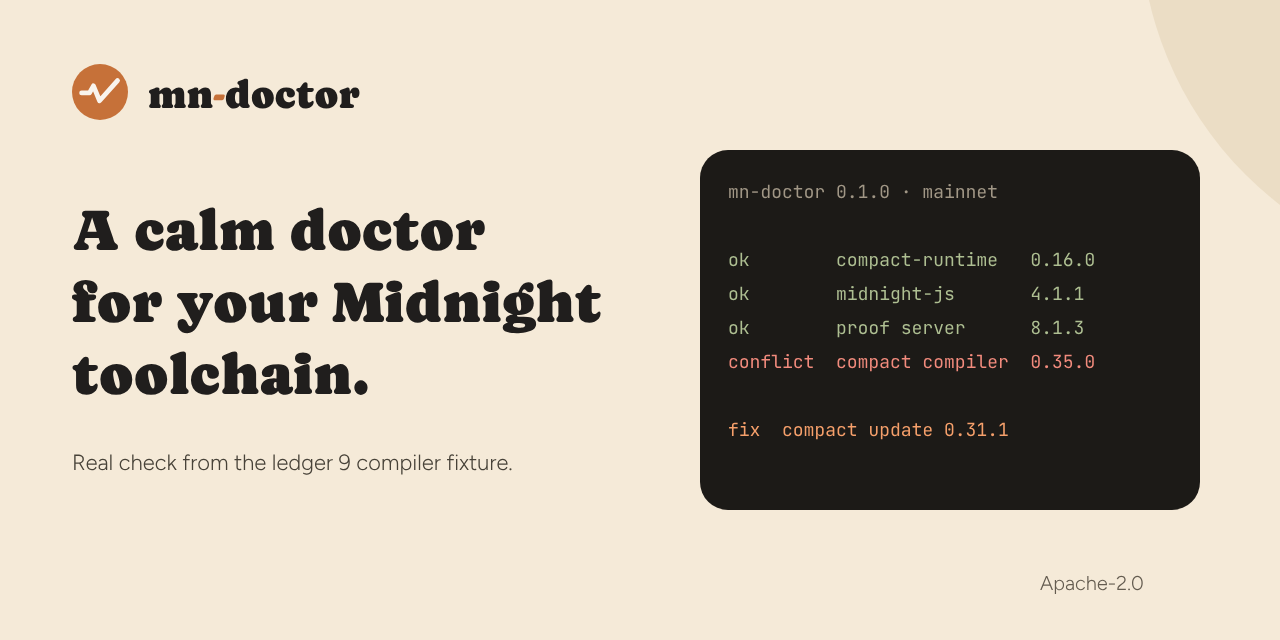
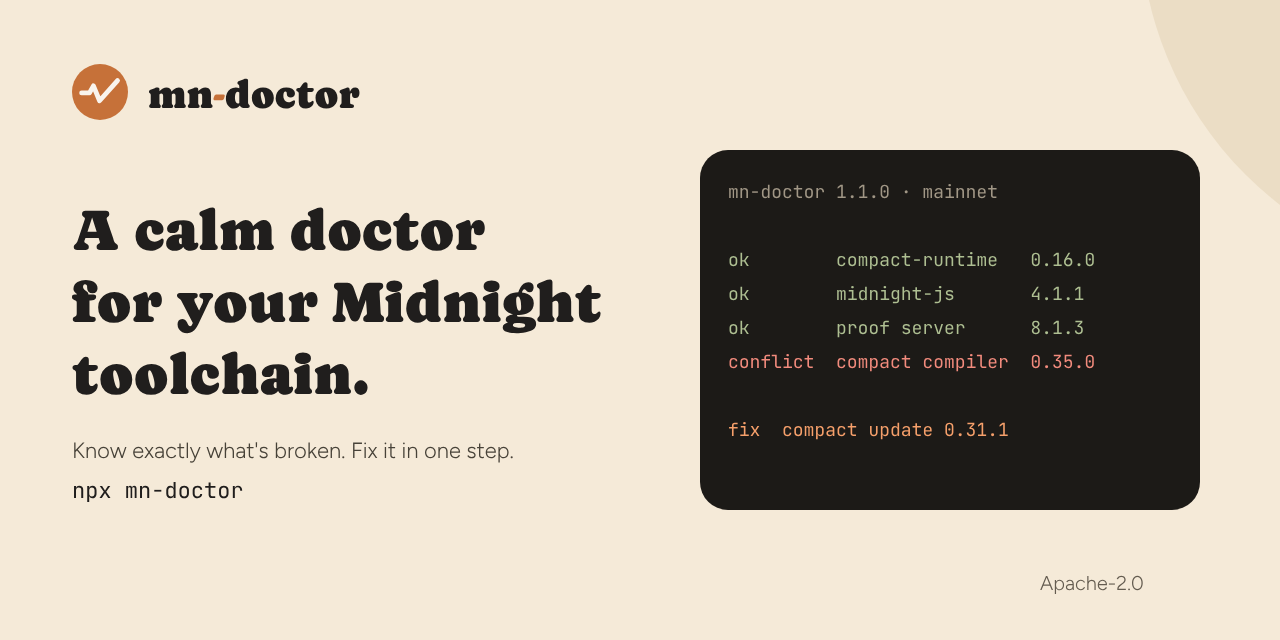
Ship mn-doctor 1.1.0 and shorten the source note
The CLI version matches the v1.1.0 tag. A check mentions that the docs
and SDK lists disagree, and prints the wrapped list only with --sources.

Changed region(s): [[0.0625, 0.6875, 0.4062, 0.7812]]

diff --git a/src/report.ts b/src/report.ts
@@ -19,6 +19,8 @@ const COL_FOUND = 12;
 
 export interface FormatOptions {
   ascii?: boolean;
+  /** Print every docs-vs-SDK disagreement. Default is a one-line count. */
+  sources?: boolean;
 }
 
 function paint(text: string, code: string, enabled: boolean): string {
@@ -35,8 +37,15 @@ function visibleLength(text: string): number {
   return text.replace(/\u001b\[[0-9;]*m/g, '').length;
 }
 
+function chunks(word: string, width: number): string[] {
+  if (word.length <= width) return [word];
+  const parts: string[] = [];
+  for (let i = 0; i < word.length; i += width) parts.push(word.slice(i, i + width));
+  return parts;
+}
+
 function wrap(text: string, width: number, indent: string): string[] {
-  const words = text.replace(/\s+/g, ' ').trim().split(' ');
+  const words = text.replace(/\s+/g, ' ').trim().split(' ').flatMap((word) => chunks(word, Math.max(1, width - indent.length)));
   if (words.length === 1 && words[0] === '') return [];
   const lines: string[] = [];
   let current = indent;
@@ -50,7 +59,12 @@ function wrap(text: string, width: number, indent: string): string[] {
     }
   }
   if (current.trim().length > 0) lines.push(current);
-  return lines.map((line) => (line.length > width ? line.slice(0, width) : line));
+  return lines;
+}
+
+function sourceNote(count: number): string {
+  const items = count === 1 ? 'item' : 'items';
+  return `Note: docs and the SDK list disagree on ${count} ${items}. Use --sources to see them.`;
 }
 
 function sentences(text: string, count: number): string {
@@ -299,10 +313,13 @@ export function formatReport(report: Report, color: boolean, options: FormatOpti
 
   if (report.disagreements.length > 0) {
     lines.push('');
-    lines.push('Official sources disagree. This does not fail the check.');
-    for (const row of report.disagreements) {
-      const line = `  ${row.component}: docs ${row.docs}; sdk ${row.sdk}`;
-      lines.push(line.length <= WIDTH ? line : `${line.slice(0, WIDTH - 1)}…`);
+    if (options.sources) {
+      lines.push('Official sources disagree. This does not fail the check.');
+      for (const row of report.disagreements) {
+        lines.push(...wrap(`${row.component}: docs ${row.docs}; sdk ${row.sdk}`, WIDTH, '  '));
+      }
+    } else {
+      lines.push(sourceNote(report.disagreements.length));
     }
   }
 

diff --git a/dist/report.js b/dist/report.js
@@ -25,8 +25,16 @@ function pad(text, width) {
 function visibleLength(text) {
     return text.replace(/\u001b\[[0-9;]*m/g, '').length;
 }
+function chunks(word, width) {
+    if (word.length <= width)
+        return [word];
+    const parts = [];
+    for (let i = 0; i < word.length; i += width)
+        parts.push(word.slice(i, i + width));
+    return parts;
+}
 function wrap(text, width, indent) {
-    const words = text.replace(/\s+/g, ' ').trim().split(' ');
+    const words = text.replace(/\s+/g, ' ').trim().split(' ').flatMap((word) => chunks(word, Math.max(1, width - indent.length)));
     if (words.length === 1 && words[0] === '')
         return [];
     const lines = [];
@@ -43,7 +51,11 @@ function wrap(text, width, indent) {
     }
     if (current.trim().length > 0)
         lines.push(current);
-    return lines.map((line) => (line.length > width ? line.slice(0, width) : line));
+    return lines;
+}
+function sourceNote(count) {
+    const items = count === 1 ? 'item' : 'items';
+    return `Note: docs and the SDK list disagree on ${count} ${items}. Use --sources to see them.`;
 }
 function sentences(text, count) {
     const parts = text
@@ -276,10 +288,14 @@ export function formatReport(report, color, options = {}) {
     }
     if (report.disagreements.length > 0) {
         lines.push('');
-        lines.push('Official sources disagree. This does not fail the check.');
-        for (const row of report.disagreements) {
-            const line = `  ${row.component}: docs ${row.docs}; sdk ${row.sdk}`;
-            lines.push(line.length <= WIDTH ? line : `${line.slice(0, WIDTH - 1)}…`);
+        if (options.sources) {
+            lines.push('Official sources disagree. This does not fail the check.');
+            for (const row of report.disagreements) {
+                lines.push(...wrap(`${row.component}: docs ${row.docs}; sdk ${row.sdk}`, WIDTH, '  '));
+            }
+        }
+        else {
+            lines.push(sourceNote(report.disagreements.length));
         }
     }
     for (const finding of report.findings.filter((item) => item.severity === 'info' && item.code !== 'multiple-lockfiles')) {

diff --git a/test/report.test.ts b/test/report.test.ts
@@ -24,7 +24,7 @@ function reportFor(fixture: string, toolchain: string) {
   return analyze(inspectProject(join(root, 'test', 'fixtures', fixture), compiler), data, {
     network: 'mainnet',
     networkLedgerMajor: 8,
-    toolVersion: '0.1.0',
+    toolVersion: '1.1.0',
   });
 }
 
@@ -39,7 +39,7 @@ describe('terminal report', () => {
     for (const line of lines) {
       assert.ok(line.length <= 80, `too long (${line.length}): ${line}`);
     }
-    assert.match(lines[0], /^mn-doctor 0\.1\.0 · .+ · mainnet$/);
+    assert.match(lines[0], /^mn-doctor 1\.1\.0 · .+ · mainnet$/);
     assert.match(text, /STATUS\s+COMPONENT\s+FOUND\s+EXPECTED/);
     assert.match(text, /✗ conflict\s+compact compiler\s+0\.35\.0\s+0\.31\.1/);
     assert.match(text, /✓ ok\s+compact-runtime\s+0\.16\.0\s+0\.16\.0/);
@@ -49,8 +49,22 @@ describe('terminal report', () => {
     assert.doesNotMatch(text, /0\.24\.0/);
     assert.match(text, /2 conflicts/);
     assert.match(text, /Run mn-doctor fix/);
-    assert.match(text, /docs 4\.1\.1/);
-    assert.match(text, /4\.0\.4/);
+    assert.match(text, /Note: docs and the SDK list disagree on \d+ items\. Use --sources to see them\./);
+    assert.doesNotMatch(text, /…/);
+    assert.doesNotMatch(text, /4\.0\.4/);
+  });
+
+  it('prints the full source list only with --sources, wrapped', () => {
+    const text = formatReport(reportFor('broken-compiler-ledger9', '0.35.0'), false, { sources: true });
+    const lines = plainLines(text);
+    for (const line of lines) {
+      assert.ok(line.length <= 80, `too long (${line.length}): ${line}`);
+    }
+    assert.match(text, /Midnight\.js: docs 4\.1\.1; sdk 4\.0\.4/);
+    assert.match(text, /wallet-sdk-facade/);
+    assert.match(text, /3\.0\.0/);
+    assert.doesNotMatch(text, /…/);
+    assert.doesNotMatch(text, /Use --sources to see them/);
   });
 
   it('prints a clean bill of health for the docs set', () => {

diff --git a/src/cli.ts b/src/cli.ts
@@ -30,6 +30,7 @@ interface Flags {
   devtoolsVersion?: string;
   noColor: boolean;
   ascii: boolean;
+  sources: boolean;
   help: boolean;
   version: boolean;
   command: string;
@@ -50,6 +51,8 @@ function readFlags(argv: string[]): Flags {
       'devtools-version': { type: 'string' },
       'no-color': { type: 'boolean', default: false },
       ascii: { type: 'boolean', default: false },
+      sources: { type: 'boolean', default: false },
+      verbose: { type: 'boolean', default: false },
       help: { type: 'boolean', short: 'h', default: false },
       version: { type: 'boolean', short: 'v', default: false },
     },
@@ -64,6 +67,7 @@ function readFlags(argv: string[]): Flags {
     devtoolsVersion: parsed.values['devtools-version'],
     noColor: parsed.values['no-color'] ?? false,
     ascii: parsed.values.ascii ?? false,
+    sources: Boolean(parsed.values.sources || parsed.values.verbose),
     help: parsed.values.help ?? false,
     version: parsed.values.version ?? false,
     command: parsed.positionals[0] ?? 'check',
@@ -88,6 +92,7 @@ Options
   --yes                           Apply fix file edits without a prompt
   --no-color
   --ascii                         Use [ok] [warn] [x] instead of Unicode symbols
+  --sources, --verbose            List every docs and SDK version disagreement
   -h, --help
   -v, --version
 
@@ -218,7 +223,7 @@ async function main(argv: string[]): Promise<number> {
       toolVersion: version,
     });
     if (flags.json) console.log(JSON.stringify(report, null, 2));
-    else console.log(formatReport(report, colorEnabled(flags), { ascii: asciiEnabled(flags) }));
+    else console.log(formatReport(report, colorEnabled(flags), { ascii: asciiEnabled(flags), sources: flags.sources }));
     return report.ok ? 0 : 1;
   }
 

diff --git a/dist/cli.js b/dist/cli.js
@@ -25,6 +25,8 @@ function readFlags(argv) {
             'devtools-version': { type: 'string' },
             'no-color': { type: 'boolean', default: false },
             ascii: { type: 'boolean', default: false },
+            sources: { type: 'boolean', default: false },
+            verbose: { type: 'boolean', default: false },
             help: { type: 'boolean', short: 'h', default: false },
             version: { type: 'boolean', short: 'v', default: false },
         },
@@ -39,6 +41,7 @@ function readFlags(argv) {
         devtoolsVersion: parsed.values['devtools-version'],
         noColor: parsed.values['no-color'] ?? false,
         ascii: parsed.values.ascii ?? false,
+        sources: Boolean(parsed.values.sources || parsed.values.verbose),
         help: parsed.values.help ?? false,
         version: parsed.values.version ?? false,
         command: parsed.positionals[0] ?? 'check',
@@ -62,6 +65,7 @@ Options
   --yes                           Apply fix file edits without a prompt
   --no-color
   --ascii                         Use [ok] [warn] [x] instead of Unicode symbols
+  --sources, --verbose            List every docs and SDK version disagreement
   -h, --help
   -v, --version
 
@@ -182,7 +186,7 @@ async function main(argv) {
         if (flags.json)
             console.log(JSON.stringify(report, null, 2));
         else
-            console.log(formatReport(report, colorEnabled(flags), { ascii: asciiEnabled(flags) }));
+            console.log(formatReport(report, colorEnabled(flags), { ascii: asciiEnabled(flags), sources: flags.sources }));
         return report.ok ? 0 : 1;
     }
     const manifestPlan = planFix(snapshot, data);

diff --git a/test/check.test.ts b/test/check.test.ts
@@ -159,8 +159,40 @@ describe('cli', () => {
     ]);
     assert.equal(result.status, 1);
     assert.match(result.stdout, /compact update 0\.31\.1/);
-    assert.match(result.stdout, /4\.1\.1/);
-    assert.match(result.stdout, /4\.0\.4/);
+    assert.match(result.stdout, /mn-doctor 1\.1\.0/);
+    assert.match(result.stdout, /Use --sources to see them/);
+    assert.doesNotMatch(result.stdout, /4\.0\.4/);
+  });
+
+  it('prints source disagreements with --sources', () => {
+    const result = runCli([
+      'check',
+      '--cwd',
+      'test/fixtures/good-public',
+      '--compact-version',
+      '0.31.1',
+      '--devtools-version',
+      '0.5.1',
+      '--sources',
+      '--no-color',
+    ]);
+    assert.equal(result.status, 0, result.stdout);
+    assert.match(result.stdout, /Midnight\.js: docs 4\.1\.1; sdk 4\.0\.4/);
+    for (const line of result.stdout.split('\n')) {
+      assert.ok(line.length <= 80, line);
+    }
+    const verbose = runCli([
+      'check',
+      '--cwd',
+      'test/fixtures/good-public',
+      '--compact-version',
+      '0.31.1',
+      '--devtools-version',
+      '0.5.1',
+      '--verbose',
+      '--no-color',
+    ]);
+    assert.equal(verbose.stdout, result.stdout);
   });
 
   it('prints compat data', () => {

diff --git a/README.md b/README.md
@@ -3,7 +3,7 @@
 </p>
 
 <p align="center">
-  <a href="https://github.com/maureenblack/mn-doctor/blob/main/package.json"><img src="https://img.shields.io/badge/version-0.1.0-c67139?style=flat-square&labelColor=201e1d" alt="version 0.1.0"></a>
+  <a href="https://github.com/maureenblack/mn-doctor/blob/main/package.json"><img src="https://img.shields.io/badge/version-1.1.0-c67139?style=flat-square&labelColor=201e1d" alt="version 1.1.0"></a>
   <a href="https://github.com/maureenblack/mn-doctor/actions/workflows/ci.yml"><img src="https://img.shields.io/github/actions/workflow/status/maureenblack/mn-doctor/ci.yml?branch=main&style=flat-square&label=ci&labelColor=201e1d" alt="CI status"></a>
   <a href="LICENSE"><img src="https://img.shields.io/badge/licence-Apache--2.0-645c50?style=flat-square&labelColor=201e1d" alt="Apache-2.0"></a>
 </p>
@@ -46,7 +46,7 @@ On 3 November 2026:
 | Language pragma | `pragma language_version` in `.compact` files |
 | Proof server | `midnightntwrk/proof-server:<tag>` in compose files, Dockerfiles, and env files |
 
-`--network` is `preview`, `preprod`, `mainnet` (the default), or `testnet` (treated as a ledger 8 public network; the docs currently name preview, preprod, and mainnet). Client pins are the same on all three. The indexer version in the data file differs by network and is reported with the source disagreement, not required in a dApp repo.
+`--network` is `preview`, `preprod`, `mainnet` (the default), or `testnet` (treated as a ledger 8 public network; the docs currently name preview, preprod, and mainnet). Client pins are the same on all three. The indexer version in the data file differs by network. A check prints one line when the docs and the SDK list disagree; `--sources` (or `--verbose`) prints each pair, wrapped. The indexer is not required in a dApp repo.
 
 Exit **0** when nothing conflicts. Exit **1** when a component targets another ledger, the compiler's runtime does not match the installed runtime, Midnight.js packages disagree with each other, or a `0.x` range can float onto another minor. Warnings, including "this matches the older SDK file", keep exit 0. `--strict` turns those warnings into failures.
 
@@ -55,6 +55,7 @@ mn-doctor check --network preprod
 mn-doctor check --json
 mn-doctor check --compact-version 0.31.1 --devtools-version 0.5.1
 mn-doctor check --strict
+mn-doctor check --sources
 ```
 
 `--compact-version` and `--devtools-version` skip probing the PATH. Use them in CI when the compiler is not installed on the runner and you still want the rest of the project checked against a chosen compiler.
